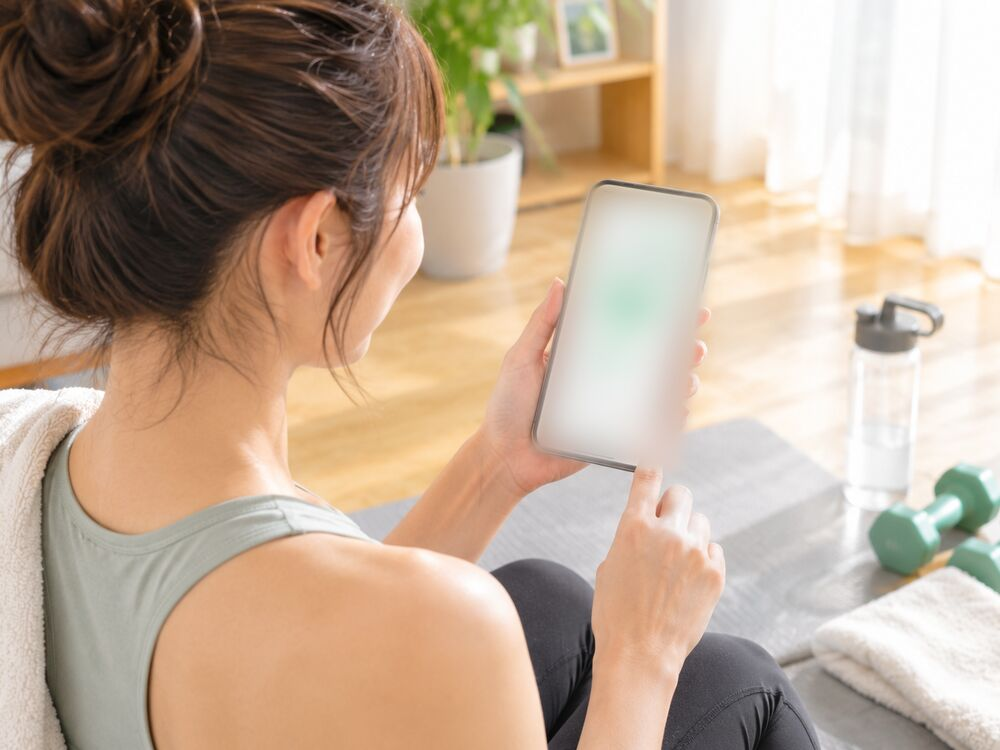
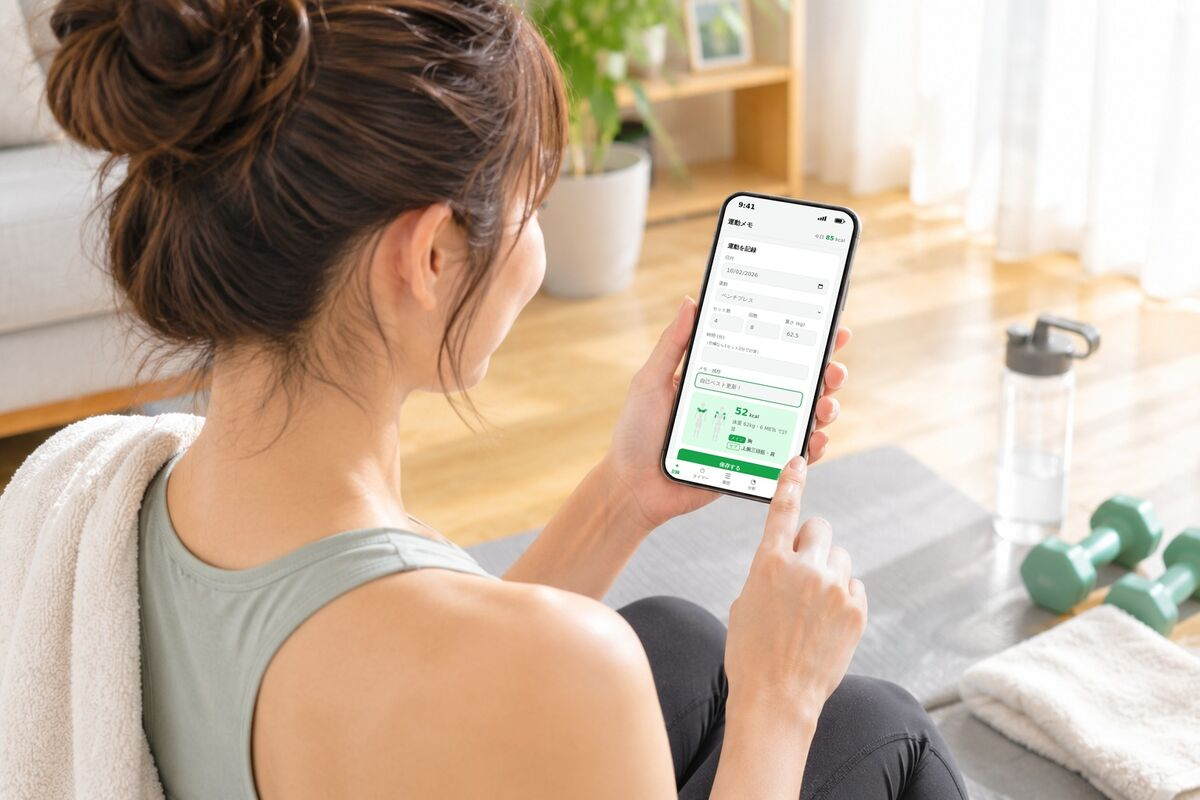
生成画像のスマホ画面を実際のアプリ画面に差し替えて掲載
- image_iphone.png: 5台のスマホに記録・人体図・推移グラフ・タイマー・カレンダーの実画面をはめ込み、
  「続けたくなる、見える化」の冒頭に掲載（lineup）
- image_timer.png: 右のスマホにレストタイマーの実画面をはめ込み（scene-plank を差し替え）
- image_workout.png: ぼかしをやめ、記録画面の実画面をはめ込み。画面に触れている指は前面に残す（scene-phone）
- main_image.png: 記録画面をはめ込み、SNS 共有用の og-image（1200x630）として使用
- timer.png: ブラウザ版向けの注意書きを iPhone アプリの文言に撮り直し

Claude-Session: https://claude.ai/code/session_01QuiDP4qtMNix43CfWbWmoe

diff --git a/index.html b/index.html
@@ -11,7 +11,10 @@
     <meta property="og:title" content="運動メモ｜鍛えた筋肉がひと目でわかる運動・筋トレ記録アプリ" />
     <meta property="og:description" content="運動を記録すると、消費カロリーと鍛えた筋肉がひと目でわかる。レストタイマー・成長グラフ付きのシンプルな記録アプリ。" />
     <meta property="og:type" content="website" />
-    <meta property="og:image" content="https://tomoka.github.io/claude_app_site/images/hero-photo.jpg" />
+    <meta property="og:image" content="https://tomoka.github.io/claude_app_site/images/og-image.jpg" />
+    <meta property="og:image:width" content="1200" />
+    <meta property="og:image:height" content="630" />
+    <meta name="twitter:card" content="summary_large_image" />
     <link rel="stylesheet" href="style.css" />
   </head>
   <body>
@@ -69,7 +72,7 @@
             <figure class="scene">
               <picture>
                 <source srcset="images/scene-plank.webp" type="image/webp" />
-                <img src="images/scene-plank.jpg" alt="リビングのヨガマットの上でプランクをしながら、スタンドに立てたスマホを見て笑顔の女性" width="1000" height="750" loading="lazy" />
+                <img src="images/scene-plank.jpg" alt="リビングのヨガマットでプランクをする女性。床に立てたスマホに運動メモのレストタイマー（残り1分07秒）が表示されている" width="1200" height="800" loading="lazy" />
               </picture>
               <figcaption>
                 <strong>セットの合間はタイマーにおまかせ</strong>
@@ -79,7 +82,7 @@
             <figure class="scene">
               <picture>
                 <source srcset="images/scene-phone.webp" type="image/webp" />
-                <img src="images/scene-phone.jpg" alt="トレーニング後、マットに座ってタオルを肩にかけ、スマホを操作する女性の後ろ姿" width="1000" height="750" loading="lazy" />
+                <img src="images/scene-phone.jpg" alt="トレーニング後、タオルを肩にかけて座り、運動メモの記録画面でベンチプレスを入力する女性の後ろ姿" width="1200" height="800" loading="lazy" />
               </picture>
               <figcaption>
                 <strong>終わったら、その場で記録</strong>
@@ -96,6 +99,11 @@
             <h2>続けたくなる、見える化</h2>
             <p>頑張りが目に見えると、運動はもっと楽しくなります。</p>
           </div>
+
+          <picture class="lineup">
+            <source srcset="images/lineup.webp" type="image/webp" />
+            <img src="images/lineup.jpg" alt="運動メモの5つの画面を表示したスマホが並んだ写真。記録、鍛えた筋肉の人体図、推移グラフ、レストタイマー、カレンダーの画面" width="1500" height="1000" loading="lazy" />
+          </picture>
 
           <div class="feature">
             <div class="feature-text">

diff --git a/style.css b/style.css
@@ -363,6 +363,14 @@ section {
   color: var(--muted);
 }
 
+/* ---------- lineup of app screens ---------- */
+.lineup img {
+  width: 100%;
+  height: auto;
+  margin: 0 auto 24px;
+  border-radius: var(--radius);
+}
+
 /* ---------- scenes (lifestyle photos) ---------- */
 .scenes {
   padding-top: 48px;
@@ -381,7 +389,7 @@ section {
 .scene img {
   width: 100%;
   height: auto;
-  aspect-ratio: 4 / 3;
+  aspect-ratio: 3 / 2;
   object-fit: cover;
   border-radius: var(--radius);
 }
